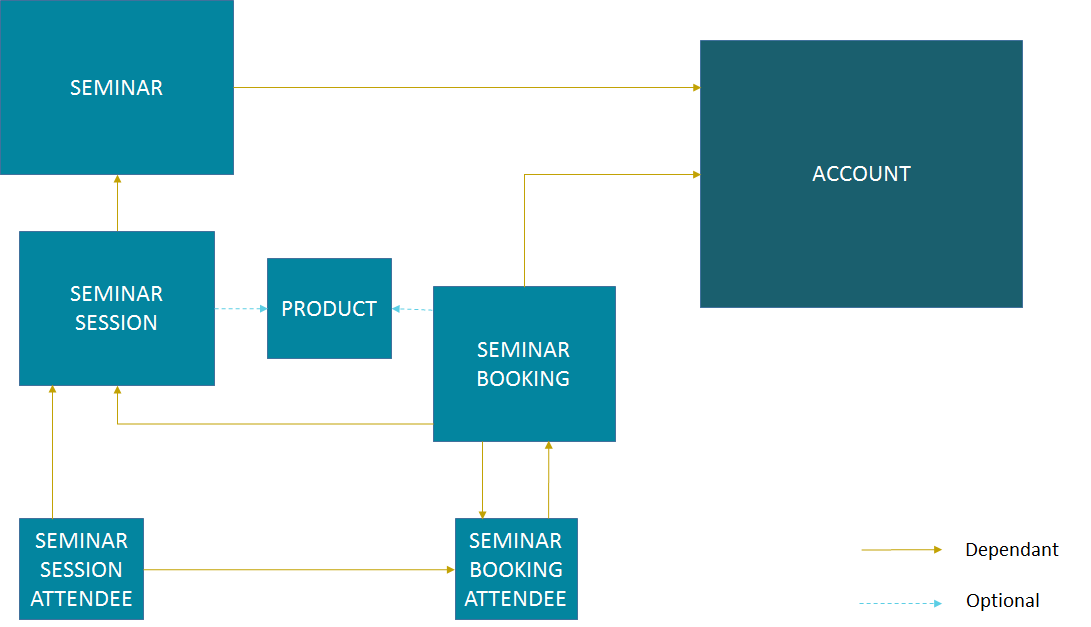
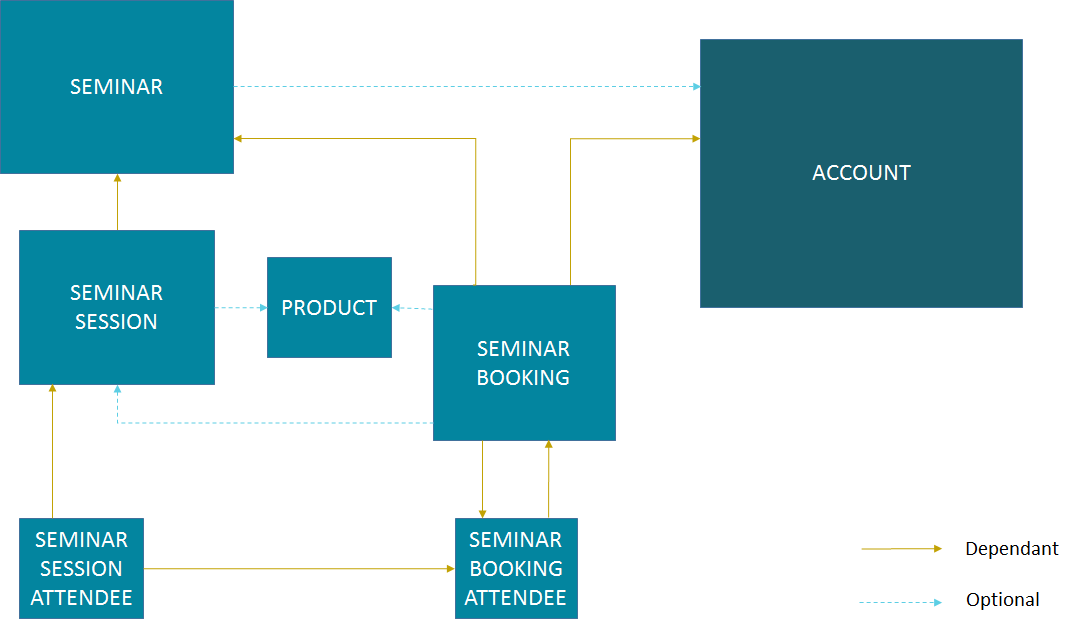
Updated Seminar Model Diagram
Seminar Model Diagram has been updated.
GV Items - Seminar has been updated.

diff --git a/docs/source/gv_items.rst b/docs/source/gv_items.rst
@@ -23,13 +23,9 @@ Seminars
    :alt: Gold-Vision Seminar Model Diagram
    :align: center
 
-As you can see, things can become a little more difficult if you are looking to create a new Seminar Session Attendee record compared to a simple Contact record. By looking at the above diagram, to create a new Seminar Session Attendee record in Gold-Vision, you will need to have a Seminar Session and a Seminar Booking Attendee. However, the Seminar Session is dependant on a Seminar of which is dependant on an Account. Also, the Seminar Booking Attendee is dependant on a Seminar Booking of which is dependant on a Seminar Session and an Account.
+As you can see, things can become a little more difficult if you are looking to create a new Seminar Session Attendee record compared to a simple Contact record. By looking at the above diagram, to create a new Seminar Session Attendee record in Gold-Vision, you will need to have a Seminar Session and a Seminar Booking Attendee. However, the Seminar Session is dependant on a Seminar. Also, the Seminar Booking Attendee is dependant on a Seminar Booking of which is dependant on a Seminar and an Account.
 
 Therefore, to create a Seminar Session Attendee record, you are required to have a Seminar Session, Seminar Booking Attendee, Seminar Booking, Seminar and Account. In contrast, to create a Contact, you are only required to have an Account.
-   
-.. note::
-
-    **Campaigns** and **Leads** can be added into Gold-Vision without the need of an **Account**. The contacts that are added to a **Campaign** will be linked to an **Account**. **Leads** exist as a separate module to Gold-Vision under **Leads Management**. 
    
 .. warning::
 
@@ -311,7 +307,7 @@ First of all we are going to create a Seminar. This is the request to be made:
 	   </soapenv:Body>
 	</soapenv:Envelope>
 
-The above request will create a Seminar called 'Sales Demo' for the Account 'Holding Ltd'.
+The above request will create a Seminar called 'Sales Demo' for the Account 'Holding Ltd'. The AC_ID is an optional field.
 
 Now we have a Seminar, the next step would be to create a Seminar Session for our attendee to attend. This is the request that will be made:
 
